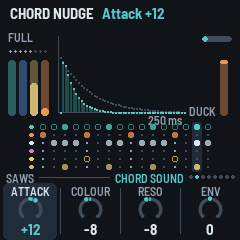
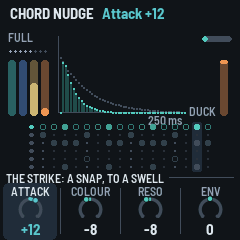
1.3.0: ready to publish: the manual's screenshots made again (the layers' pages, the knob's help line, the ripples), its download 1.3.0; PLAN

diff --git a/PLAN.md b/PLAN.md
@@ -538,7 +538,7 @@ would fit.
 - MIDI CC out for the filter and the echo send, to drive other gear
 - Keys as live mutes, or a held key as a manual throw
 
-## Release 1.3.0, the musical release: the chord machine, visible, and a sound pass (2026-10-20; the chords built, to try; was 1.2.5)
+## Release 1.3.0, the musical release: the chord machine, visible, and a sound pass (2026-10-20; ready to publish)
 
 At launch the firmware generates a full eight-chord progression (the random walk writes it into the eight slots), and
 the Chords page (EDIT) shows it. Proposed: both of the user's behaviours, as KNOB 4 (Play) on the Chords page, which
@@ -558,8 +558,9 @@ today switches between Random and the slots.
   engine holds the slots and writes the walk's (`walk_from`, `walk_fill`, `chord_change`); the UI mirrors them
   (`en_prog_slot`, `en_prog_gen`, `prog_take`). A walk slot that becomes diminished after a change of scale is
   walked again. Tests: tests/host/amb_test.c (Loop, Endless), tests/scenarios/chords.amb.
-- [ ] The user tries it (build/dub-1.3.0-test2.fwsc); then the release, and the SMK branch
-- [ ] **The sound pass, in 1.3.0** (decided by the user, 2026-10-20: the musical release, the chord machine and the
+- [x] The user tried it on the FM-1 (the builds up to build/dub-1.3.0-specks1.fwsc): "it feels more mature now"
+- [ ] Publish (the user's go): push main, `tools/publish_pages.sh 1.3.0`, `gh release create v1.3.0`; then the SMK branch
+- [x] **The sound pass, in 1.3.0** (decided by the user, 2026-10-20: the musical release, the chord machine and the
       sounds together): "Nail the sounds" and the sound design round below (the voices too alike, the kick, the bass,
       the hats, the echo's colour, the cloud, the crackle), by ear
 - The engine: `chord_change()` already has the walk (from a degree other than home, back home 65% of the time;
@@ -578,6 +579,12 @@ today switches between Random and the slots.
       its shake moves it to a neighbour; Evolve above 60 moves it now and then by itself, back towards the piece's
       (the user's earlier idea of slow groove changes within a song). Evolve above 40 nudges by itself on a phrase's first
       bar (1-2 values, half steps; never a shake). The help cards removed to make room for the hold.
+- [x] **The pages and controls** (the user, 2026-10-20): the round in the panel's order; the levels in PERFORM's mix only,
+      the freed knobs Throws, Ghost, Notes, Hats; OCT− / OCT+ a layer's level and mute (a level ring in the middle);
+      format 13. The noise muddier (a worn cartridge). The screen: a layer's page shows that layer alone (ripples,
+      scope, spectrum, its lanes in colour, the rest grey); the ripples' outlines the wave, the echo's repeats measured,
+      the noise's clicks as specks; a knob's help line while it turns. Fixed: the grid flickering over the Chords and
+      Pattern pages; line() overshooting a short slope (an endless loop).
 - The videos for it: see "Videos to make" below.
 
 ## Videos to make (the channel's full plan: build/film/channel/CHANNEL.md)

diff --git a/docs/MANUAL.md b/docs/MANUAL.md
@@ -42,12 +42,12 @@ same code the FM-1 runs, with sound.
 to install on the computer. Don't unplug it while it's writing; when it finishes, the FM-1 restarts
 into DUB-1.
 
-**Or from the command line:** download `dub-1.2.0.fwsc` from the
+**Or from the command line:** download `dub-1.3.0.fwsc` from the
 [releases](https://github.com/sbegueria/fm1-dub/releases), install Python 3 with
 `pip3 install mido python-rtmidi`, and run, in a checkout of the source:
 
 ```
-python3 tools/fm1_install.py dub-1.2.0.fwsc
+python3 tools/fm1_install.py dub-1.3.0.fwsc
 ```
 
 **Go back:** the installer page's "Back to the stock firmware", or M-VAVE's own updater, M-UPGRADE,
